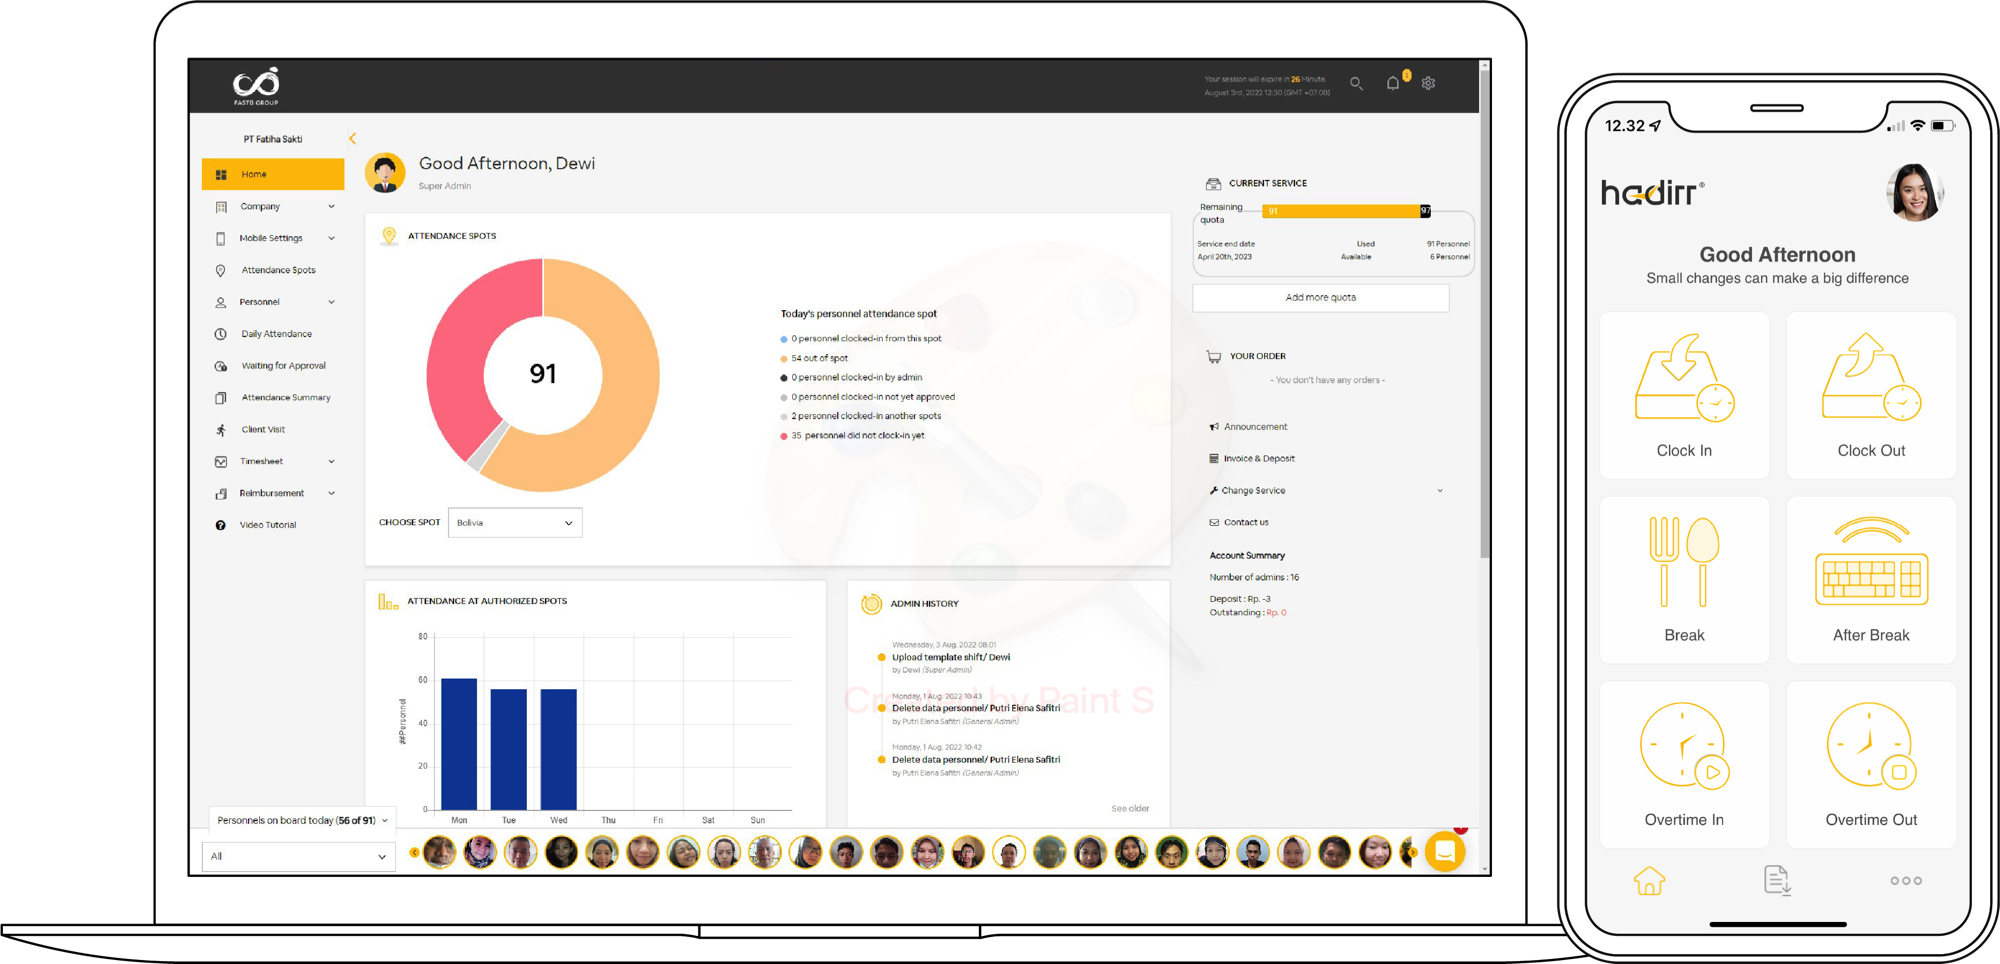
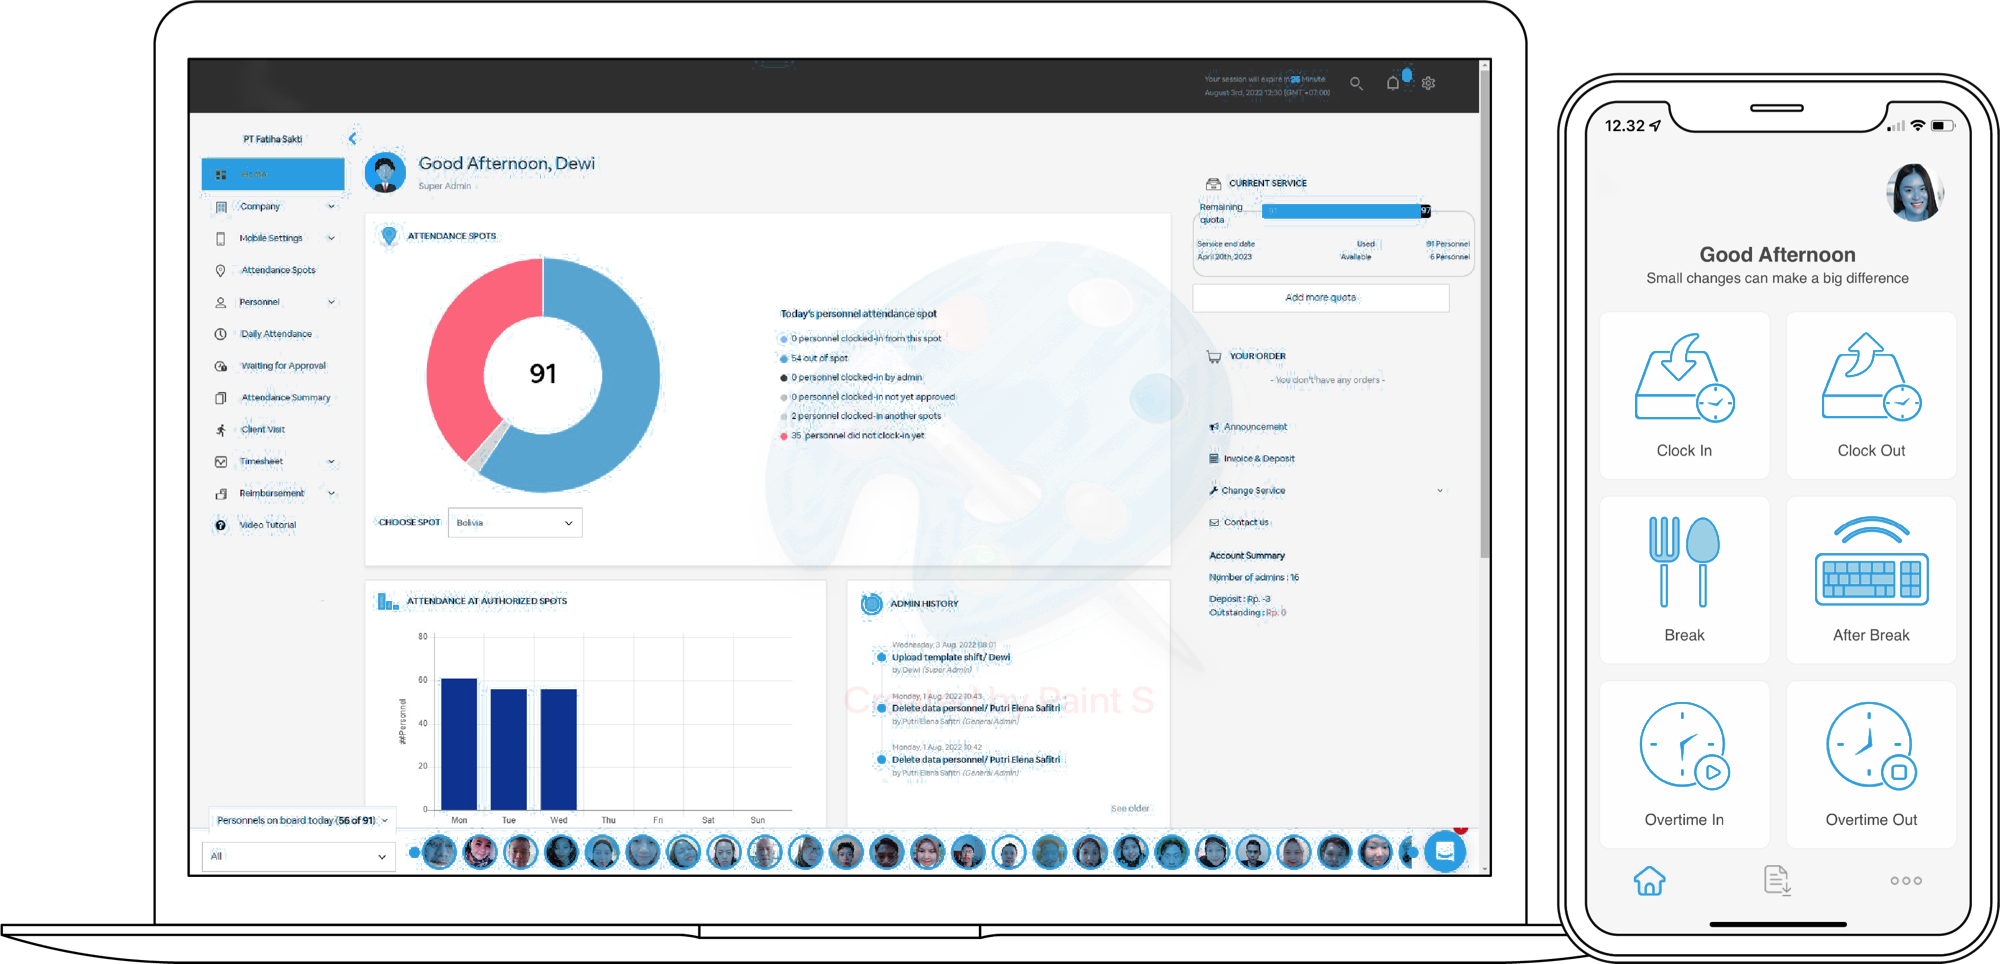
Featureson landing page

diff --git a/src/components/Hero.jsx b/src/components/Hero.jsx
@@ -4,14 +4,14 @@ import {Link} from "react-router-dom";
 
 const Hero = () => {
   return (
-    <div className="flex justify-center gap-10 mt-40 px-20">
-      <div className="flex flex-col gap-5">
+    <div className="flex justify-center gap-10 mt-[200px] px-20">
+      <div className="flex flex-col gap-5 mt-20">
         <h1 class="text-3xl font-bold py-2">
           <span class="text-secondary">Attendify</span> - The Best Solution For Absence Management.
         </h1>
         <p class="text-lg py-3 font-medium">
           <span class="text-secondary">Reliable</span> & <span class="text-secondary">Efficient</span> web based
-          student attendance app with tons of features for all kinds of needs.
+          attendance management app with tons of features for all kinds of needs.
         </p>
         <Button>
           <Link to="#learn" className="flex items-center text-sm">
@@ -33,16 +33,9 @@ const Hero = () => {
             </svg>
           </Link>
         </Button>
-        <h3 class="text-xl py-5">Trusted by more than 1000 companies</h3>
-        <div class="flex flex-col items-center lg:flex-row">
-          <img class="w-36 h-16" src="https://www.hadirr.com/static/images/clients/kpp-pratama.png" alt="" />
-          <img class="w-36 h-16" src="https://www.hadirr.com/static/images/clients/antam.png" alt="" />
-          <img class="w-36 h-16" src="https://www.hadirr.com/static/images/clients/jasaraharja.png" alt="" />
-          <img class="w-36 h-16" src="https://www.hadirr.com/static/images/clients/pelindo.png" alt="" />
-        </div>
       </div>
-      <div className="w-[1100px] h-[900px]">
-        <img src="https://freeimghost.net/images/2023/09/18/hero.png" alt="hero" />
+      <div className="w-3/4">
+        <img src="https://freeimghost.net/images/2023/09/22/hero.png" alt="hero" />
       </div>
     </div>
   );

diff --git a/src/components/Features.jsx b/src/components/Features.jsx
@@ -1,0 +1,41 @@
+import React from 'react'
+import Report from "../assets/img/report.svg"
+import Remote from "../assets/img/remote.svg"
+import Real from "../assets/img/real.svg"
+import Timesheet from "../assets/img/sheet.svg"
+
+const Features = () => {
+  return (
+    <>
+    <div className='flex flex-col justify-center items-center text-title mt-40'>
+        <h3 className='text-2xl font-bold'>Attendify Features</h3>
+        <p className='py-2 tracking-widest'>Efficiently manage everything on the go.</p>
+    </div>
+    <div className='grid-cols-2 grid gap-x-60 gap-y-20 items-center py-10 mx-auto text-title font-medium'>
+        <div className='flex flex-col items-center gap-5 w-60 h-80'>
+            <h4>Remote Submission</h4>
+            <img src={Remote} alt="Remote logo" className='w-60 h-56'/>
+            <p></p>
+        </div>
+        <div className='flex flex-col items-center gap-5 w-60 h-80'>
+            <h4>Online Timesheet</h4>
+            <img src={Timesheet} alt="Timesheet logo" className='w-60 h-80'/>
+            <p></p>
+        </div>
+        <div className='flex flex-col items-center gap-5 w-60 h-80'>
+            <h4>Absence Report</h4>
+            <img src={Report} alt="Report logo" className='w-60 h-80'/>
+            <p></p>
+        </div>
+        <div className='flex flex-col items-center gap-5 w-60 h-80'>
+            <h4>Real Time Data</h4>
+            <img src={Real} alt="Real time logo" className='w-60 h-72'/>
+            <p></p>
+        </div>
+    </div>
+    </>
+    
+  )
+}
+
+export default Features

diff --git a/src/pages/Teacher.jsx b/src/pages/Teacher.jsx
@@ -25,7 +25,7 @@ const Teacher = () => {
           <Breadcrumb model={model} />
         </div>
         <Link to="/add-teacher">
-          <Button>Add teacher</Button>
+          <Button>Add Teacher</Button>
         </Link>
       </div>
       <div className="flex flex-col gap-10">
@@ -33,7 +33,7 @@ const Teacher = () => {
           <h1 className="text-2xl font-semibold text-title px-5 py-2">Attendance Sheet</h1>
           <Table className="!w-full">
             <Table.Head>
-              <Table.HeadCell>#</Table.HeadCell>
+              <Table.HeadCell>ID</Table.HeadCell>
               <Table.HeadCell>Teacher Name</Table.HeadCell>
               <Table.HeadCell>Phone Number</Table.HeadCell>
               <Table.HeadCell>Email</Table.HeadCell>

diff --git a/src/components/Navbar.jsx b/src/components/Navbar.jsx
@@ -3,7 +3,7 @@ import {Link} from "react-router-dom";
 import {useState} from "react";
 import BellIcon from "../assets/icons/notif.svg";
 import Cookies from "js-cookie";
-import Logo from "../assets/img/attendify.png";
+import Logo from "../assets/img/attendify.svg";
 import Profile from "../assets/icons/pic.svg";
 import Button from "./Button";
 
@@ -47,7 +47,7 @@ const Navbar = ({visibility, homemenu}) => {
             </li>
           </ul>
         </div>
-        <div className={`${homemenu} uppercase`}>
+        <div className={`${homemenu} uppercase text-sm`}>
           <Button>
             <Link to="/login">Launch App</Link>
           </Button>

diff --git a/src/components/Sidebar.jsx b/src/components/Sidebar.jsx
@@ -22,8 +22,8 @@ const Sidebar = () => {
   const username = Cookies.get("username");
 
   return (
-    <div className="fixed h-full top-16 shadow-lg w-72">
-      <div className="flex flex-col justify-between bg-white min-h-screen pl-6 pr-10 pt-6">
+    <div className="fixed h-full top-20 shadow-lg w-72 ">
+      <div className="flex flex-col justify-between bg-white min-h-screen pl-6 pr-10 pt-8">
         <div className="flex flex-col gap-2">
           {(Auth.adminRole() || Auth.teacherRole()) && (
             <>

diff --git a/src/pages/LandingPage.jsx b/src/pages/LandingPage.jsx
@@ -1,12 +1,14 @@
 import React from "react";
 import Navbar from "../components/Navbar";
 import Hero from "../components/Hero";
+import Features from "../components/Features";
 
 const LandingPage = () => {
   return (
-    <div className="flex flex-col min-h-screen">
+    <div className="flex flex-col min-h-screen bg-primary bg-opacity-[10%]">
       <Navbar visibility="hidden" />
       <Hero />
+      <Features />
     </div>
   );
 };

diff --git a/src/layout/AuthLayout.jsx b/src/layout/AuthLayout.jsx
@@ -3,7 +3,7 @@ import Navbar from "../components/Navbar";
 
 const AuthLayout = () => {
   return (
-    <div className="bg-[#EDF1F7]">
+    <div className="bg-primary bg-opacity-10">
       <Navbar visibility="hidden" homemenu="hidden" />
       <div className="flex justify-center">
         <Outlet />

diff --git a/src/layout/RootLayout.jsx b/src/layout/RootLayout.jsx
@@ -4,7 +4,7 @@ import {Outlet} from "react-router-dom";
 
 const RootLayout = () => {
   return (
-    <div className="bg-[#EDF1F7] min-h-screen w-full">
+    <div className="bg-primary bg-opacity-10 min-h-screen w-full">
       <Navbar homemenu="hidden" />
       <div>
         <Sidebar />

diff --git a/tailwind.config.js b/tailwind.config.js
@@ -4,7 +4,7 @@ export default {
   theme: {
     extend: {
       colors: {
-        primary: "#1D9BF0",
+        primary: "#65bbf5",
         secondary: "#1D9BF0",
         title: "#012970",
       },

diff --git a/src/components/Testimonial.jsx b/src/components/Testimonial.jsx
@@ -1,0 +1,9 @@
+import React from 'react'
+
+const Testimonial = () => {
+  return (
+    <div>Testimonial</div>
+  )
+}
+
+export default Testimonial
